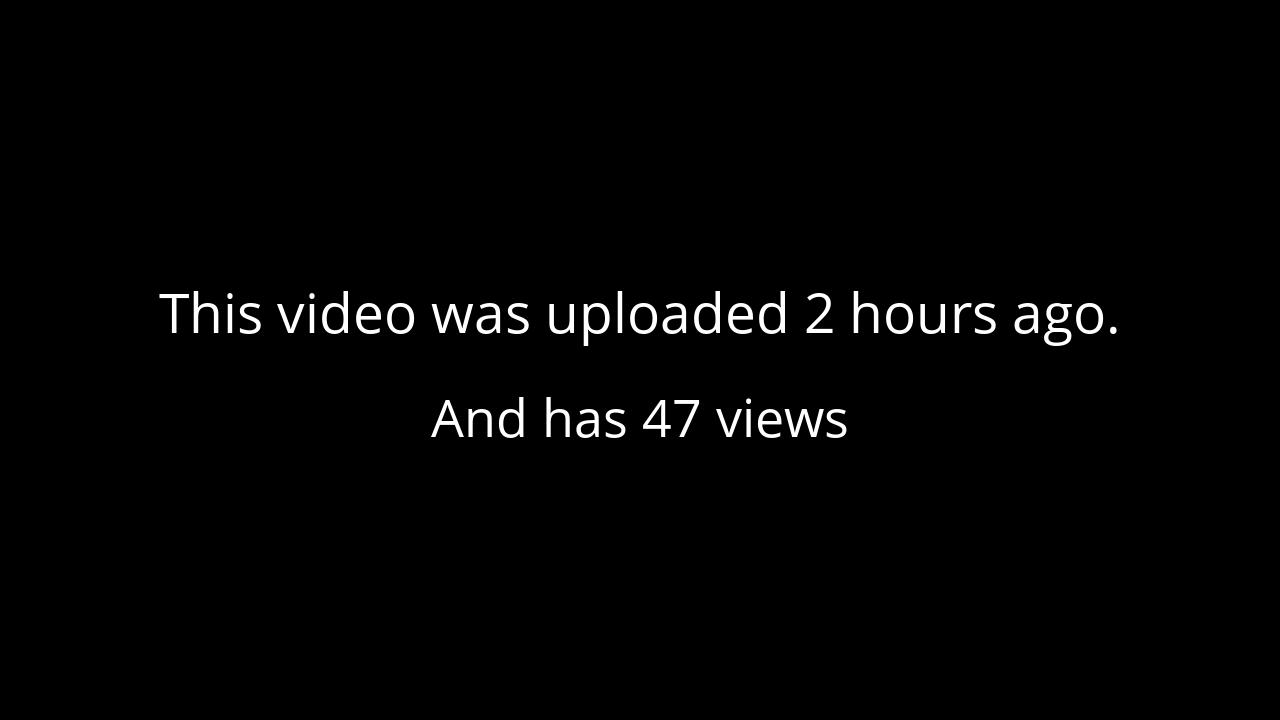
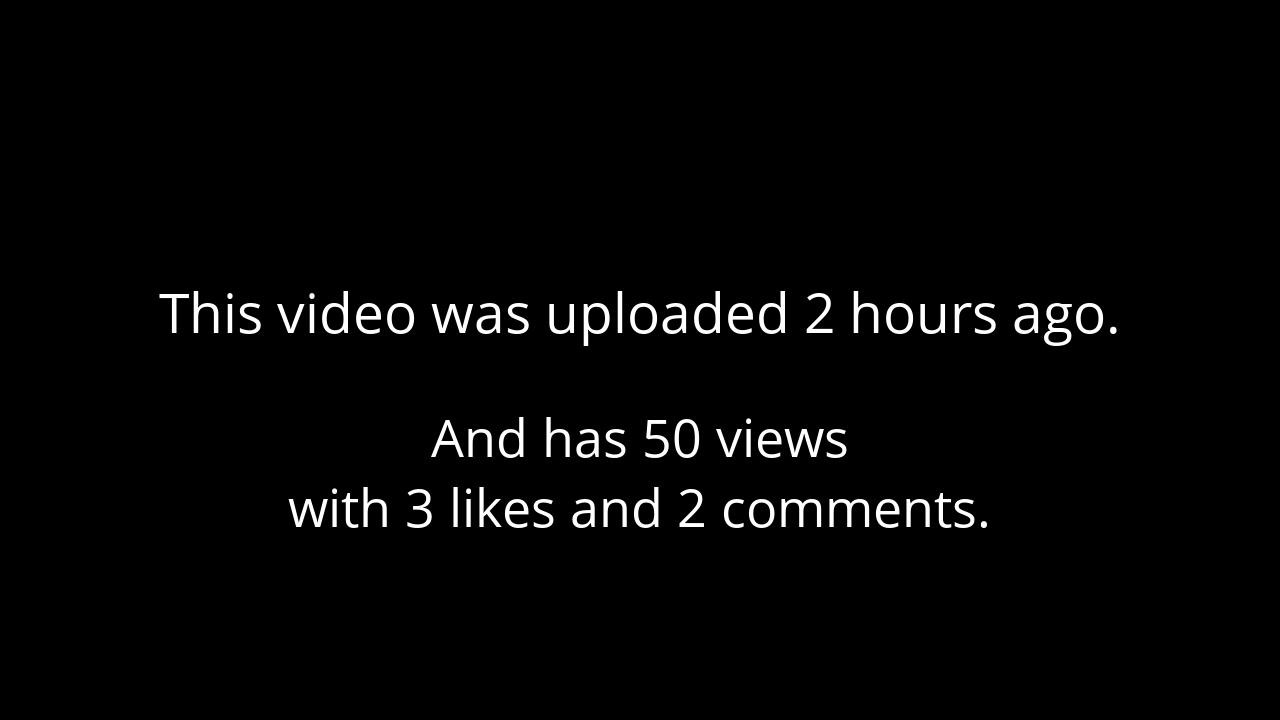
refresh thumbnail with like and comment counter

Changed region(s): [[0.2188, 0.6722, 0.7812, 0.7333], [0.3125, 0.55, 0.6562, 0.6417]]

diff --git a/main.py b/main.py
@@ -76,12 +76,17 @@ def main():
             id=VIDEO_ID
         )
         response = request.execute()
-        viewCounts = response['items'][0]['statistics']['viewCount']
+
+        stats = response['items'][0]['statistics']
+        view_count = stats['viewCount']
+        like_count = stats['likeCount']
+        comment_count = stats['commentCount']
 
         title = f"This video was uploaded {time_delta_str} ago."
-        subtitle = f"And has {viewCounts} views"
+        subtitle = f"And has {view_count} views"
+        other_subtitle = f"with {like_count} likes and {comment_count} comments."
 
-        draw_thumbnail(title, subtitle)
+        draw_thumbnail(title, subtitle, other_subtitle)
         request = youtube.thumbnails().set(
             videoId=VIDEO_ID,
             media_body=MediaFileUpload("./thumbnail.jpg")
@@ -94,7 +99,7 @@ def main():
                 "snippet": {
                     "categoryId": 22,
                     "defaultLanguage": "en",
-                    "title": title + " " + subtitle,
+                    "title": title + " " + subtitle + " " + other_subtitle,
                     "description": """
                         reload the page and watch it update.
                         the github project for this video can be found on: https://github.com/SeJV/UpdatableYoutube

diff --git a/draw_text.py b/draw_text.py
@@ -6,7 +6,7 @@ W = 1280
 H = 720
 
 
-def draw_thumbnail(title: str, subtitle: str) -> None:
+def draw_thumbnail(title: str, subtitle: str, other_subtitle: str) -> None:
     img = Image.new('RGB', (W, H), (0, 0, 0))
     draw = ImageDraw.Draw(img)
 
@@ -16,7 +16,10 @@ def draw_thumbnail(title: str, subtitle: str) -> None:
 
     subtitle_font = ImageFont.truetype("./OpenSans-Regular.ttf", 52)
     subtitle_w, subtitle_h = draw.textsize(subtitle, font=subtitle_font)
-    draw.text(((W - subtitle_w) / 2, (H - subtitle_h) / 2 + 50), subtitle, font=subtitle_font, fill=(255, 255, 255))
+    draw.text(((W - subtitle_w) / 2, (H - subtitle_h) / 2 + 70), subtitle, font=subtitle_font, fill=(255, 255, 255))
+
+    subtitle_w, subtitle_h = draw.textsize(other_subtitle, font=subtitle_font)
+    draw.text(((W - subtitle_w) / 2, (H - subtitle_h) / 2 + 140), other_subtitle, font=subtitle_font, fill=(255, 255, 255))
 
     with open('thumbnail.jpg', 'w') as outfile:
         img.save(outfile, 'JPEG')
